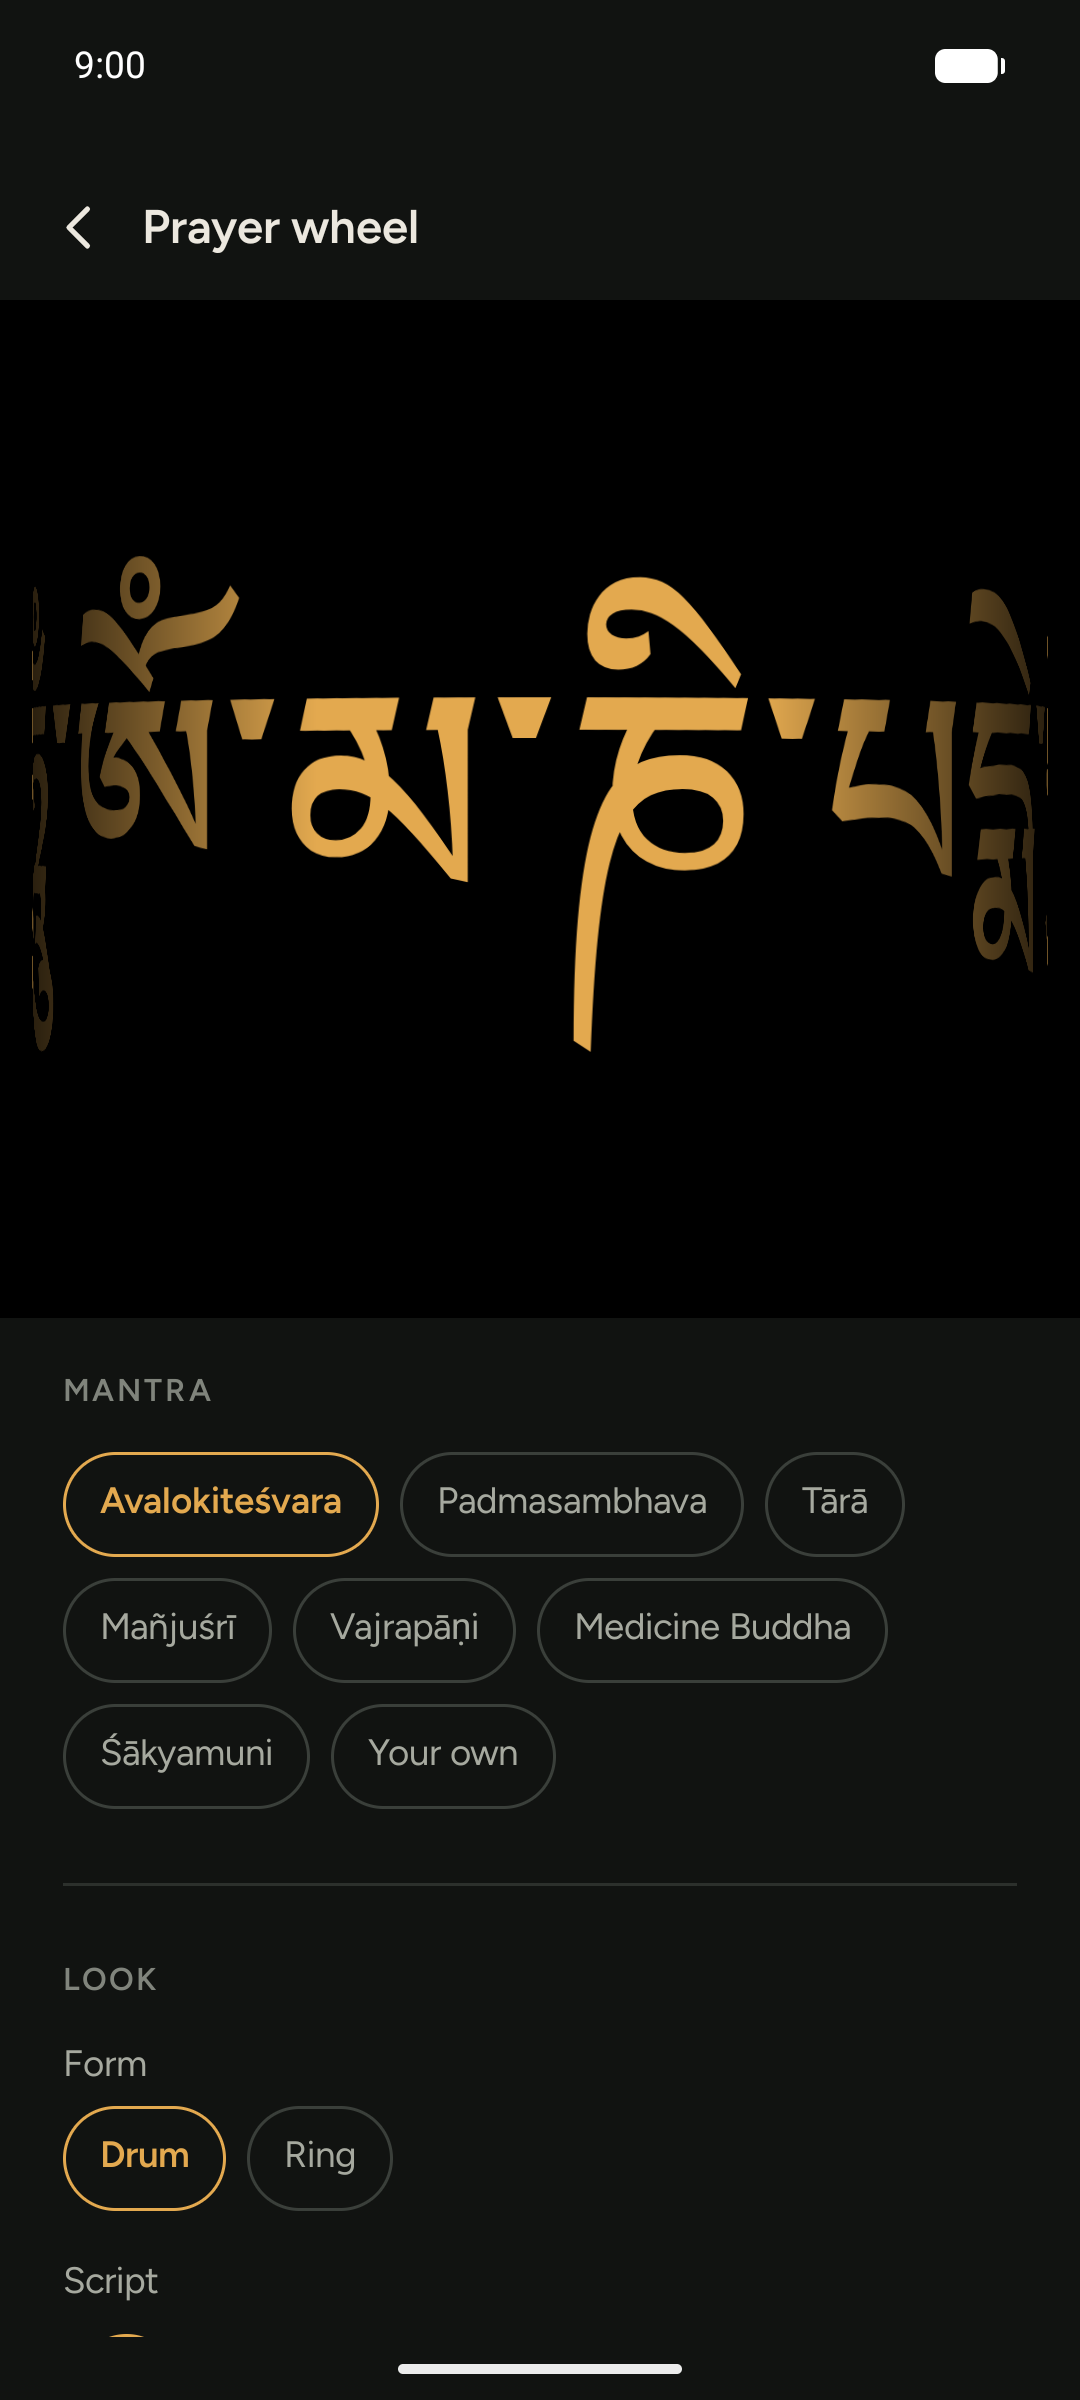
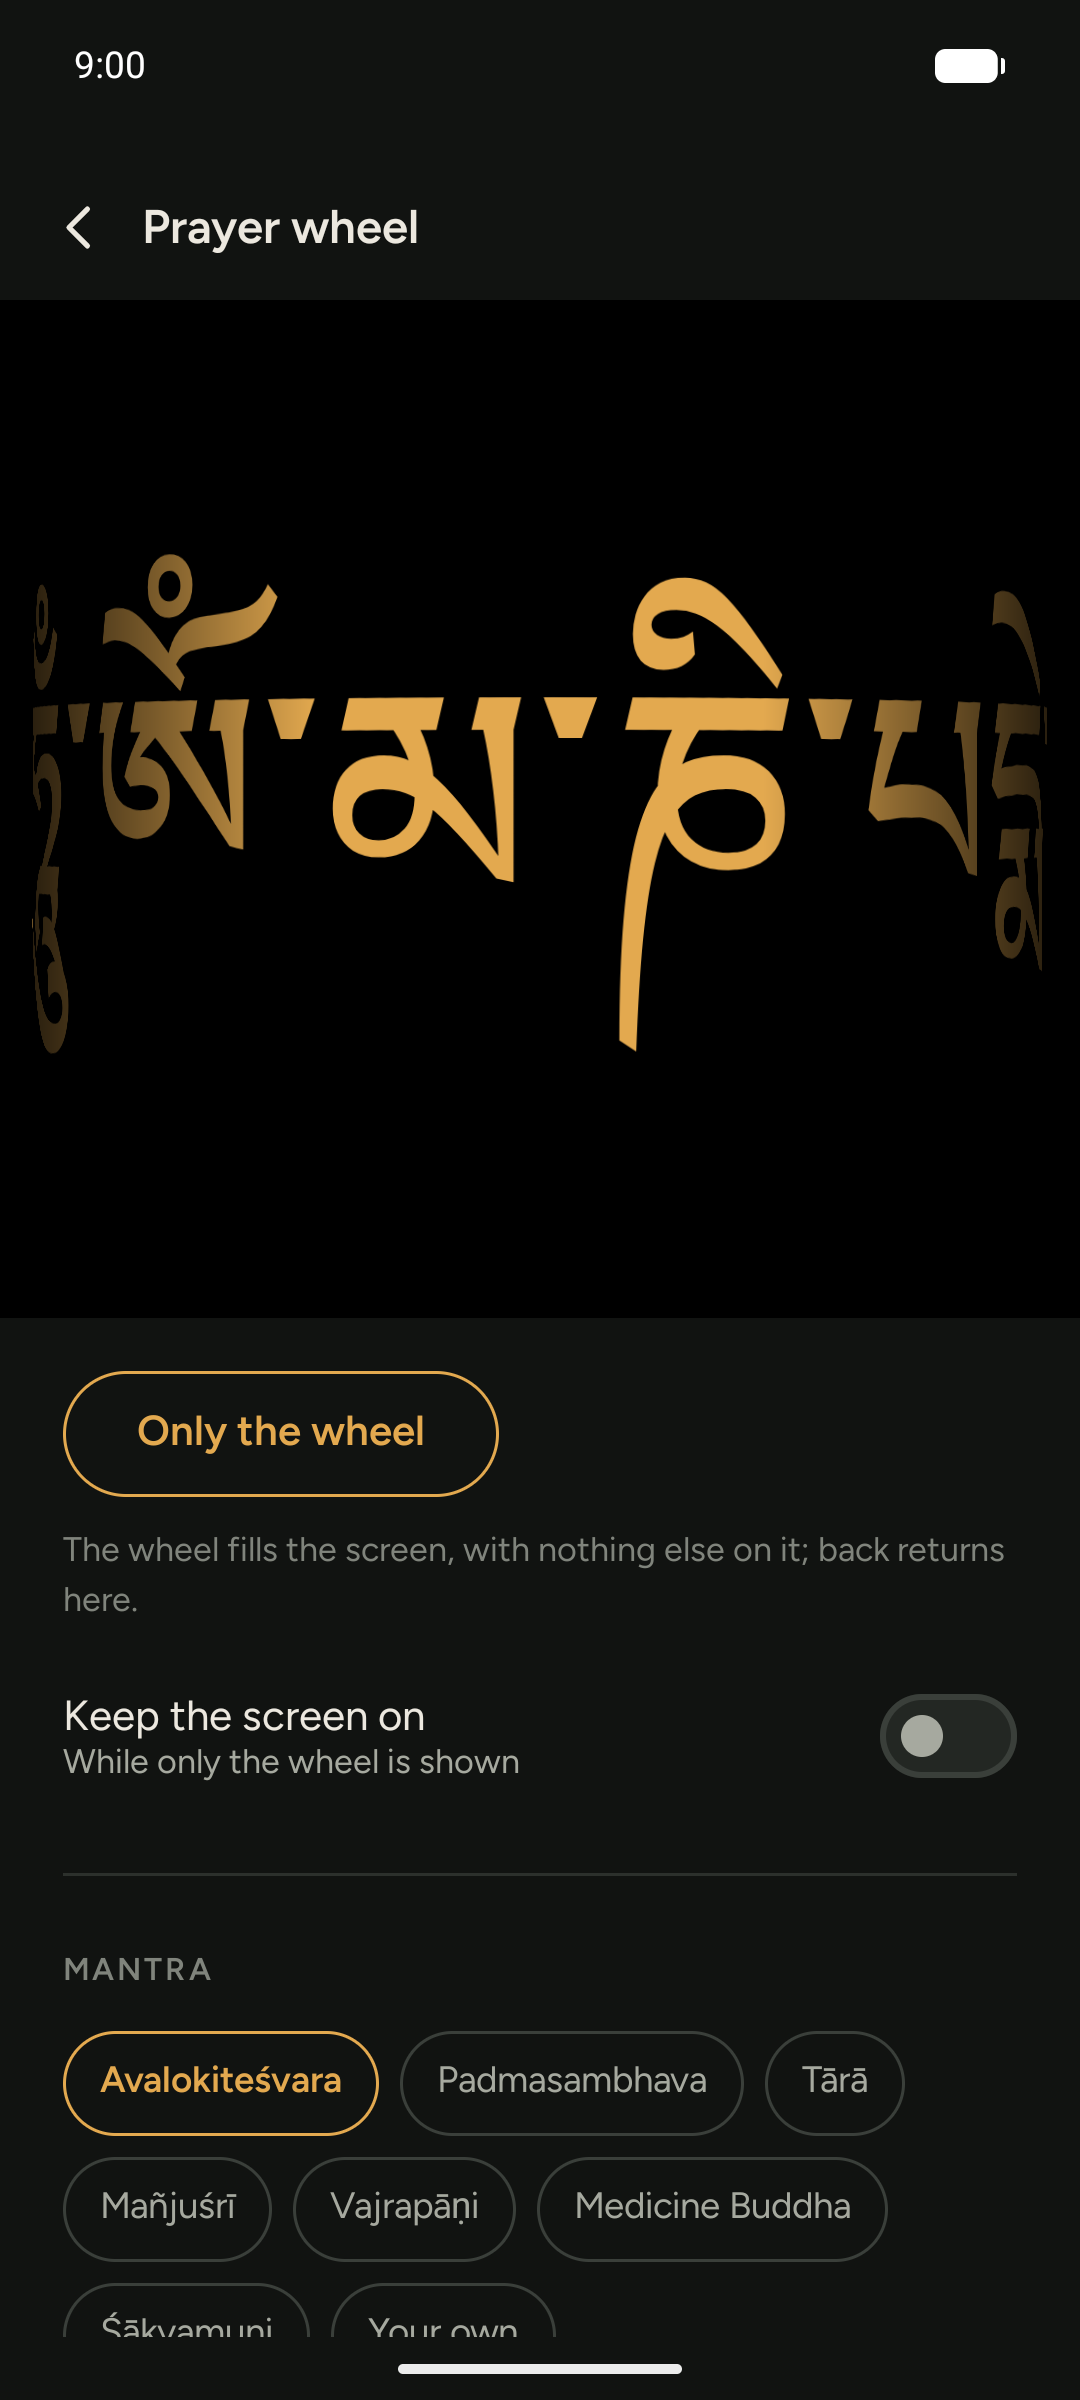
docs: the wheel quickened by every touch, and only the wheel
SPEC 10.12, the roadmap's M2 with what was checked on the emulator, the
README, the rule file on the keep-screen flag, both store listings, shot
10 in both languages and its alt text.

diff --git a/.agents/rules/app.md b/.agents/rules/app.md
@@ -13,7 +13,7 @@ paths:
 
 # The app, the engines and the CLI
 
-`app/` is Compose UI. Package `zanshin.app`, application id and `R` namespace `io.github.iverlein.zanshin`; interface text in `res/values/strings.xml`, translations in `res/values-<lang>/` (Weblate, [docs/weblate.md](docs/weblate.md)), checked by `src/test/.../TranslationsTest.kt`. `bell/`: the meditation timer's service, the mindfulness bell's alarms and its ring service with the bell's notice, the synthesised bells (SPEC §10.9) and the morning notice's alarm and notification (`MorningNotice`, SPEC §10.5), tested by `BellTest`. `wheel/`: the prayer wheel (SPEC §10.12): `WheelPlan` the turning and layout without Android, tested by `WheelTest`, `WheelPainter` one canvas painter for the screen and the wallpaper, `WheelWallpaper` the live wallpaper; a test that force-stops the app drops the wallpaper. `widget/`: the home-screen widget (`DayWidget`, SPEC §10.6), plain RemoteViews drawn by its own alarm, `WidgetTest` for its times; every row's visibility is set on each update, since the launcher applies an update to the views it already holds.
+`app/` is Compose UI. Package `zanshin.app`, application id and `R` namespace `io.github.iverlein.zanshin`; interface text in `res/values/strings.xml`, translations in `res/values-<lang>/` (Weblate, [docs/weblate.md](docs/weblate.md)), checked by `src/test/.../TranslationsTest.kt`. `bell/`: the meditation timer's service, the mindfulness bell's alarms and its ring service with the bell's notice, the synthesised bells (SPEC §10.9) and the morning notice's alarm and notification (`MorningNotice`, SPEC §10.5), tested by `BellTest`. `wheel/`: the prayer wheel (SPEC §10.12): `WheelPlan` the turning and layout without Android, tested by `WheelTest`, `WheelPainter` one canvas painter for the screen and the wallpaper, `WheelWallpaper` the live wallpaper; a test that force-stops the app drops the wallpaper. Keeping the screen on for the wheel alone uses the window's flag: `view.keepScreenOn` stays set after a trip to the home screen. `widget/`: the home-screen widget (`DayWidget`, SPEC §10.6), plain RemoteViews drawn by its own alarm, `WidgetTest` for its times; every row's visibility is set on each update, since the launcher applies an update to the views it already holds.
 
 `tools/emulator/` drives the app on the `zanshin-test` emulator: `emu.py` (preferences, also into the release build by root, language, taps by on-screen text, screenshots with their text, the two widgets placed on the home screen), `tour.py` (a fixed tour to compare two builds), `russian_tour.py` (the language switch and a Russian read-through), `store_shots.py` (the ten store screenshots in one language), `scales.py` (both pages and the screens at font scales 1.0 to 2.0, in landscape and at a tablet's 800 dp, SPEC §10.1).
 

diff --git a/docs/SPEC.md b/docs/SPEC.md
@@ -4851,19 +4851,29 @@ OpenGL.
 - **Turning:** one turn in thirty seconds by itself, clockwise seen from
   above: a drum's front runs from right to left, a ring turns clockwise on
   the screen with its line reading anticlockwise, so that on both the
-  syllables pass any one point in their order. A finger with the wheel
-  speeds it, up to two turns a second, and it eases back with a time
-  constant of 5 s; a finger against it only brakes it, down to a stop,
-  from which it takes up the slow turn: it never runs backwards
-  (`WheelMotion`). On a drum a finger counts along x, on a ring around
-  the centre.
+  syllables pass any one point in their order. Every touch quickens the
+  wheel and none slows it (the owner, 2026-11-04: stopping it is wrong in
+  idea and in logic): a tap adds a quarter turn a second, so that taps add
+  up, a moving finger in any direction brings the wheel up to the finger's
+  own speed, and the most is two turns a second, from which it eases back
+  with a time constant of 5 s. It never stops or runs backwards
+  (`WheelMotion`).
+- **Only the wheel:** the first thing under the wheel, a button that
+  gives the screen to the wheel alone: no header, settings, status bar or
+  navigation bar, no word on the screen, every touch going to the wheel,
+  which keeps its turning. The system's back returns to the settings; a
+  turn of the phone stays in it. "Keep the screen on", off by default, holds
+  the screen lit for as long as only the wheel is shown, and is dropped on
+  leaving. Android itself shows a one-time notice on how to leave full screen,
+  the first time on each device.
 - **Colours:** six for the script and six for the ground, every pair
   standing 4.5:1 (`WheelTest`), so no choice hides the mantra; gold on
   black by default. The screen's frame keeps the app's theme.
 - **Wallpaper:** "Set as wallpaper" opens Android's own page for it. It
   shows what the screen has chosen, at once when that changes, and draws
-  only while seen, at about thirty frames a second at the slow turn; a
-  finger on the home screen and the turning of its pages speed it. The
+  only while seen, at about thirty frames a second at the slow turn. A
+  finger on the home screen, the turning of its pages either way and
+  coming back to the home screen from an app each quicken it. The
   button is hidden where a phone has no live wallpapers
   (`android.software.live_wallpaper`, not required). Android drops a
   live wallpaper when its app is force-stopped.

diff --git a/docs/ROADMAP.md b/docs/ROADMAP.md
@@ -2180,8 +2180,12 @@ The owner's request of 2026-11-04, after an old live wallpaper no longer
 offered on current Android: a screen in the Practice group and a live
 wallpaper, one painter for both. Its forms and colours (the owner's
 answers the same day): both a drum and a ring, the colours to choose;
-several mantras, not one; a slow turn by itself that a flick speeds and a
-finger against only brakes.
+several mantras, not one; a slow turn by itself that any touch quickens.
+The owner first chose that a finger against it should only brake it, and
+reversed that the same day, once it stood on the phone: a tap on the home
+screen or a page swipe stopped the wheel, "ideologically and logically
+wrong". With that, a mode with only the wheel on the screen, and the option
+of keeping the screen on.
 
 - **Checked on the emulator** (Android 17): both forms and every mantra
   in English and Russian, an own line, font scale 2.0 and landscape in both,
@@ -2190,6 +2194,16 @@ finger against only brakes.
   (3.6 rad/s) and a page swipe (the most, 12.5 rad/s), no frames while an
   app covers it, a change of colours reaching it at once. `WheelTest`
   holds the turning, the layout and the colours' contrast.
+- **Every touch quickens, only the wheel (built 2026-11-04), checked on
+  the emulator:** the speed logged for swipes left, right and down on the
+  screen (0.03 to over 1.2 turns a second each) and a tap (to 0.3); on the
+  wallpaper a tap, page swipes both ways, fast and slow, a small drag in
+  three directions, coming home from an app and five quick taps (to 1.3),
+  none below where it began. Only the wheel: no bars and no words on the
+  screen, upright and on its side, back returning to the settings; the
+  screen's flag set only with the option on, and gone after back, also
+  after a turn of the phone and a trip to the home screen. That last case
+  is why the window's flag is used: `view.keepScreenOn` stayed set after it.
 - **Direction:** the pool has no passage on it. Clockwise is the common
   account of turning a wheel; that the syllables pass in their order
   follows from the geometry. Ladner's *The Wheel of Great Compassion*

diff --git a/README.md b/README.md
@@ -8,7 +8,7 @@ readings of that day and sunrise, solar noon and sunset for your place.
 <img src="fastlane/metadata/android/en-US/images/phoneScreenshots/2.png" width="220" alt="Japanese day: 十三夜">
 <img src="fastlane/metadata/android/en-US/images/phoneScreenshots/4.png" width="220" alt="Japanese almanac annotations">
 <img src="fastlane/metadata/android/en-US/images/phoneScreenshots/6.png" width="220" alt="Meditation timer: a zazen of 20, 10 and 30 minutes">
-<img src="fastlane/metadata/android/en-US/images/phoneScreenshots/10.png" width="220" alt="Prayer wheel: a mantra in gold on a turning drum, with the mantras to choose from below">
+<img src="fastlane/metadata/android/en-US/images/phoneScreenshots/10.png" width="220" alt="Prayer wheel: a mantra in gold on a turning drum, with the way to the wheel alone and the mantras to choose from below">
 
 - **Tibetan:** lunar day, month and year with skipped and doubled days and
   leap months; festivals and monthly observances; lunar mansion, yoga,
@@ -87,8 +87,9 @@ readings of that day and sunrise, solar noon and sunset for your place.
   synthesised on the phone, so no sound file is bundled.
 - **Prayer wheel:** a mantra in Tibetan script alone, seven to choose
   from or a line of your own, on a drum or a ring in the colours you
-  choose, turning slowly by itself; a flick speeds it, a finger against it
-  brakes it. Also a live wallpaper, the same wheel on the home screen.
+  choose, turning slowly by itself; every touch quickens it, and nothing
+  slows it. Shown alone on the whole screen if you wish, the screen kept on
+  if you ask. Also a live wallpaper, the same wheel on the home screen.
 - Every Tibetan term and kanji shows its English on tap; every reading comes
   from a published source, listed in About & sources.
 - Six themes: Ink (dark, the default), Paper (light), Night (black, for
